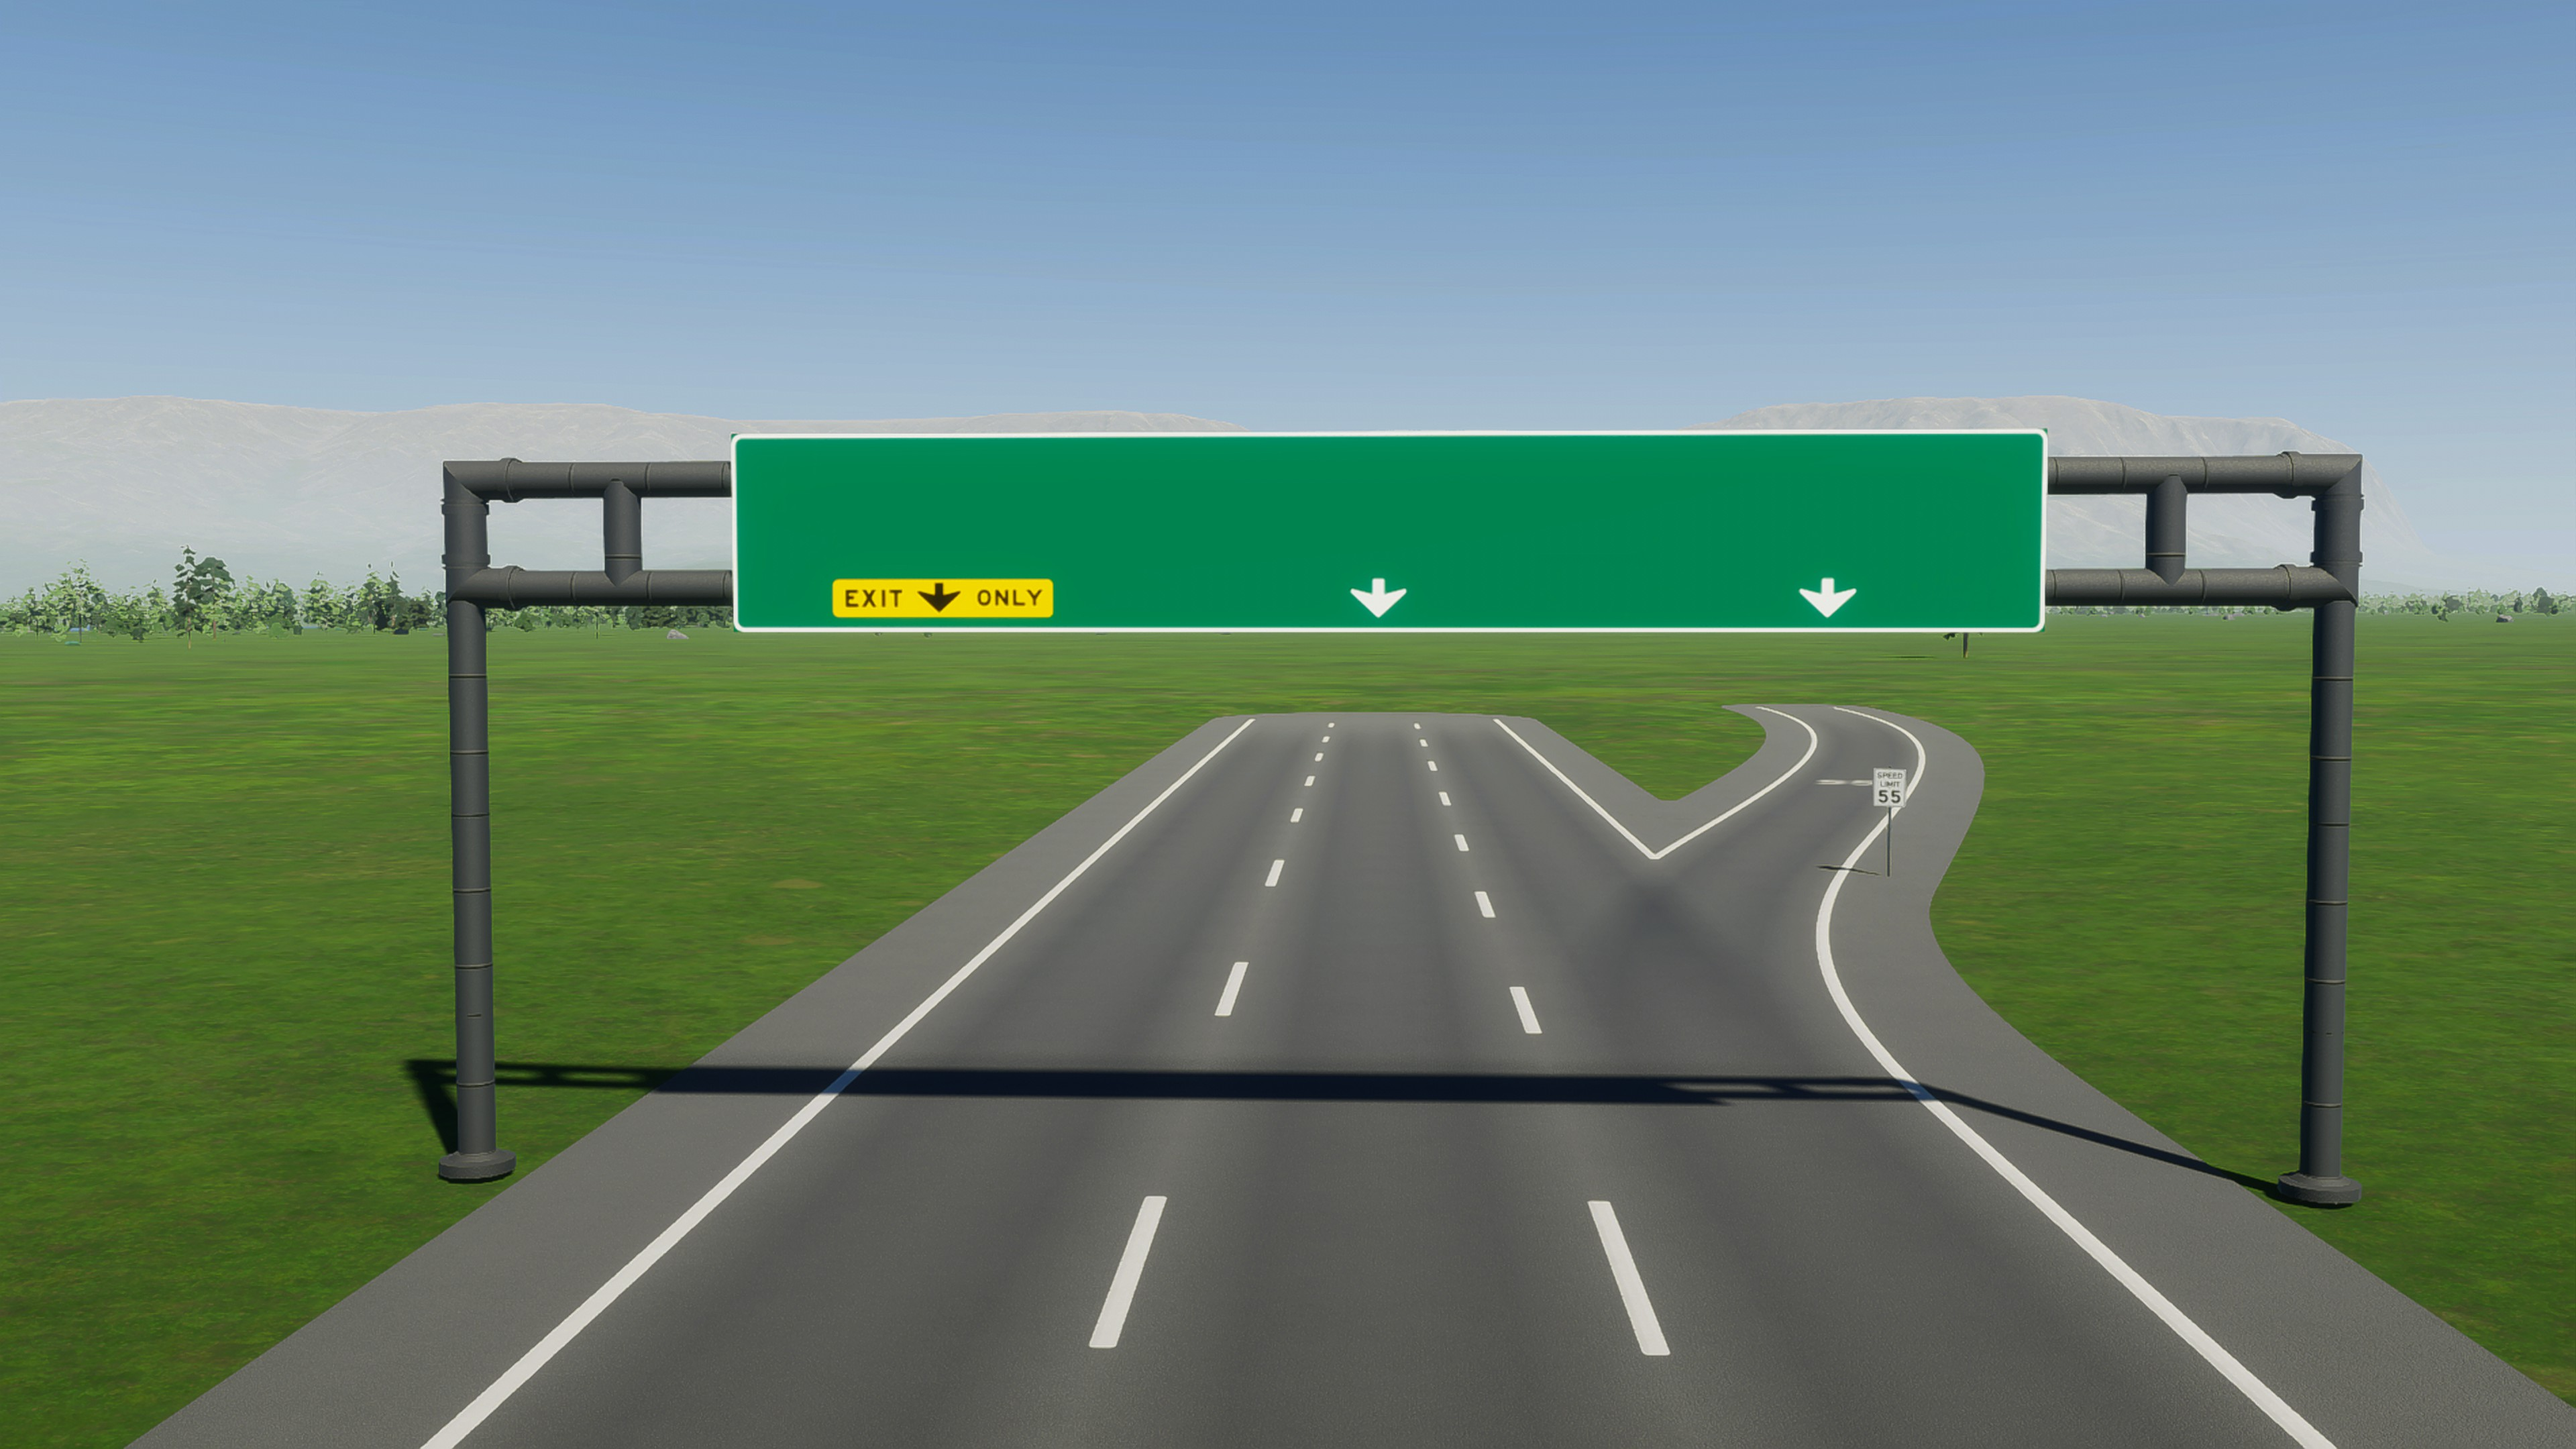
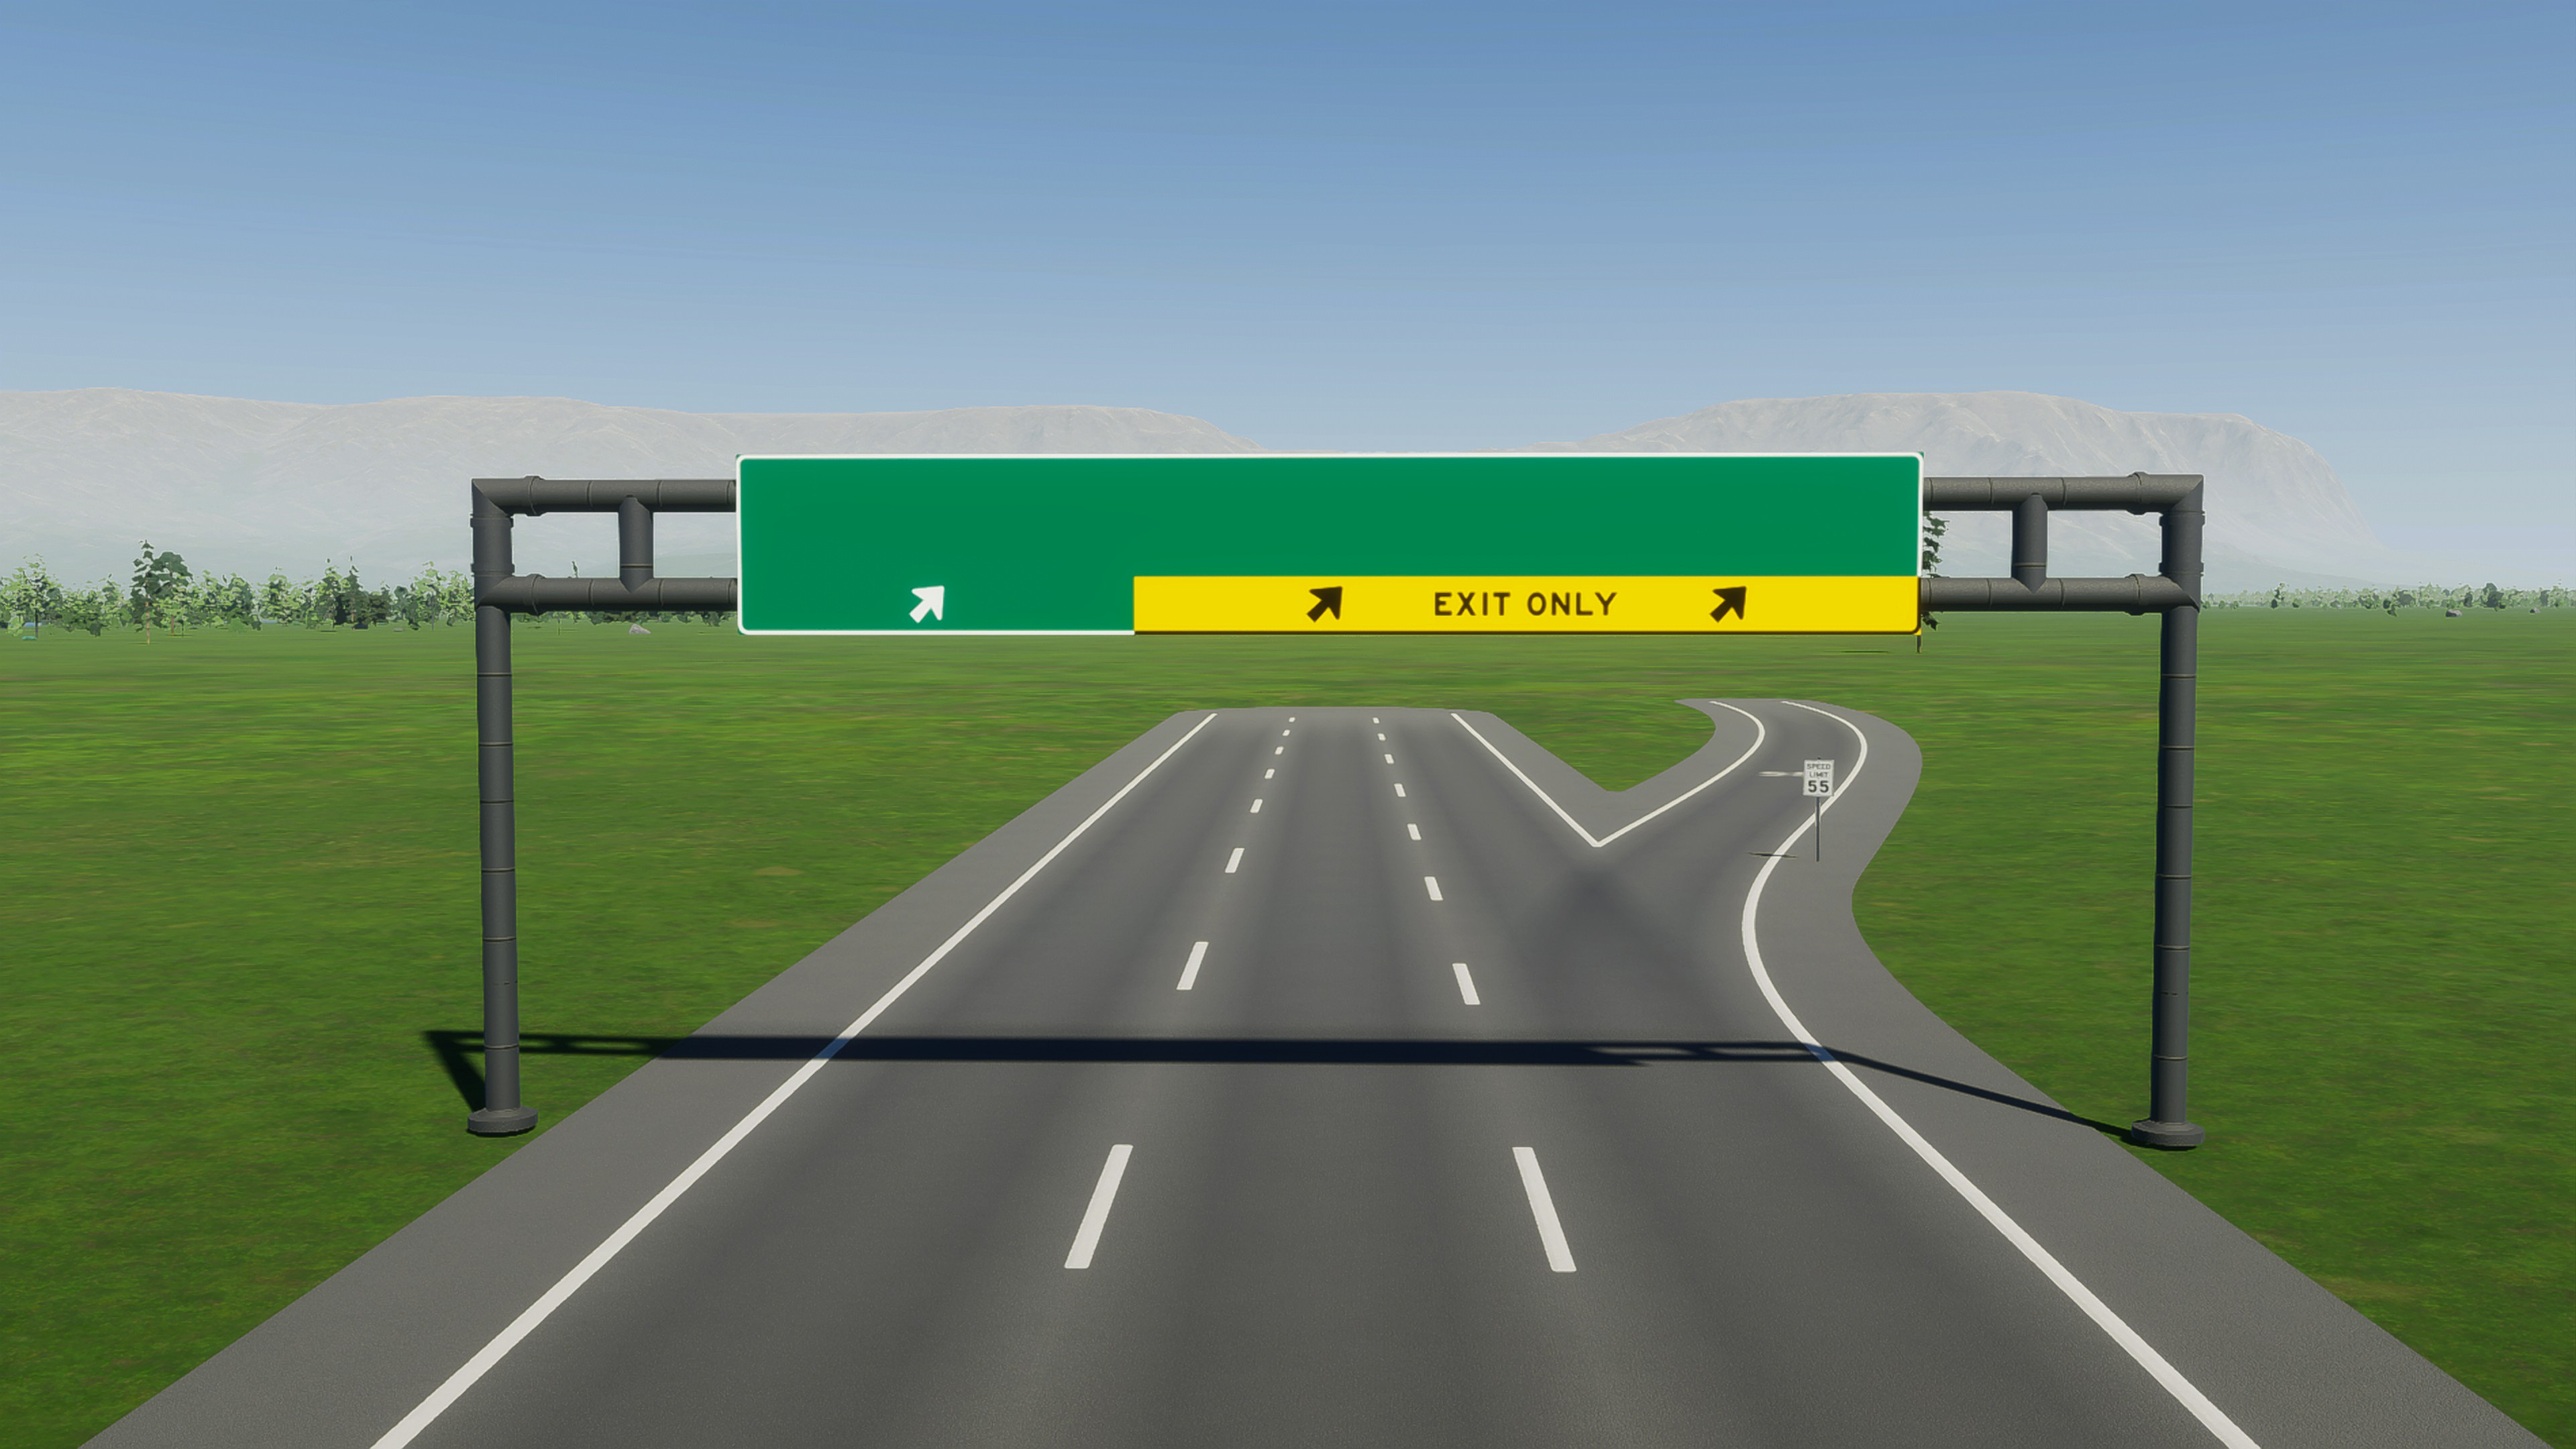
Added Ext1 signs.

diff --git a/_BaseModule/README.md b/_BaseModule/README.md
@@ -6,6 +6,7 @@ Hello Cities: Skylines II civil engineers! This is a **Write Everywhere Module**
 
 - 3 Lane (Medium) California Highway (Freeway) signs inspired by California's MUTCD
 - 107 total signs (see screenshots)
+- Additional 120 new signs with exit tab style 1 with Ext1 WE atlas pack (with v1.1 update)
 - WE Layout included for easy implementation onto your highways (freeways)
 
 ## How to Use
@@ -22,7 +23,7 @@ Hello Cities: Skylines II civil engineers! This is a **Write Everywhere Module**
 10. The layout will be added to WE's COMPONENTS TREE window. (see screenshot)
 11. Click the down arrow on 3LM CA Highway Sign.
 12. Select Sign Image.
-13. On the CONTENT window, set Atlas to 3LM CA Highway Signs (WE):3LM CA Highway Signs. (see screenshot)
+13. On the CONTENT window, set Atlas to 3LM CA Highway Signs (WE):3LM CA Highway Signs or 3LM CA Highway Signs (WE):3LM CA Highway Signs Ext1. (see screenshot)
 14. Set Image and customize it to your city needs! (there are plenty of WE Modules on Paradox Mods that include highway shields for use with 3LM CA Highway (Freeway) Signs)
 
 There is some terminology that you can use to determine what sign is what:
@@ -77,3 +78,5 @@ No fonts included. Any True-Type font (.ttf) can be used with these signs. I per
 - To Klyte45 for the WriteEverywhere Mod!
 - To UnMaestro for the help and WE Module template!
 
+##  More signs?
+- Check out my profile for more of my signs and subscribe for the latest releases!

diff --git a/_BaseModule/changelog.md b/_BaseModule/changelog.md
@@ -1,0 +1,2 @@
+# v1.1
+- Adds additional 120 new 3LM CA Highway signs with California Exit Tab Style 1 with Ext1 WE atlas pack.
